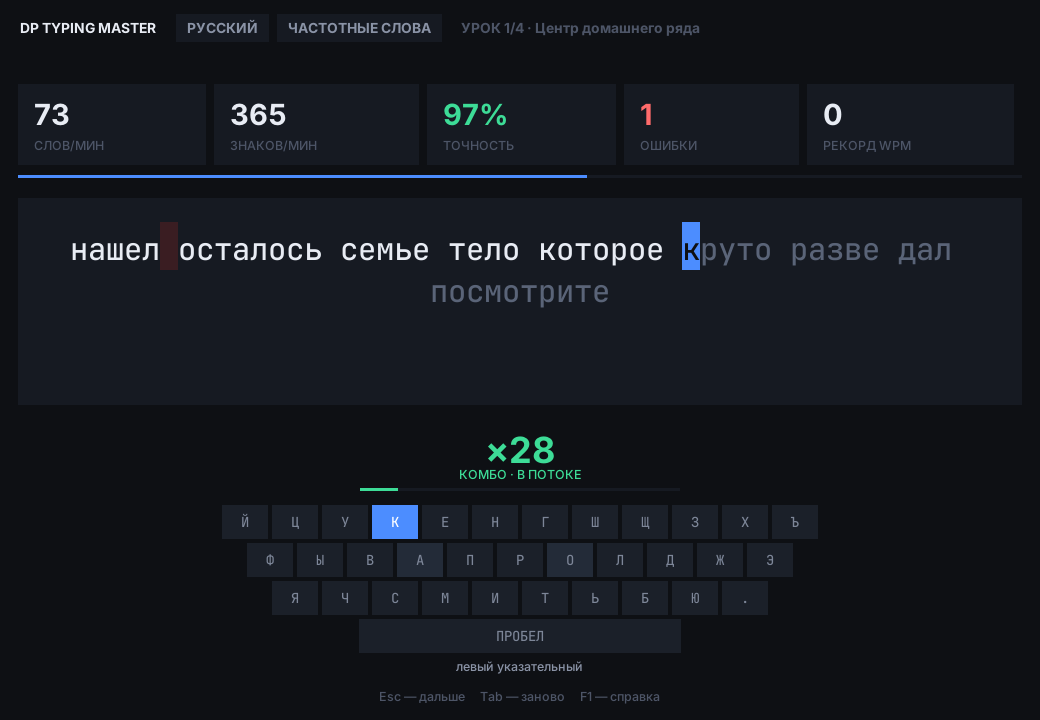
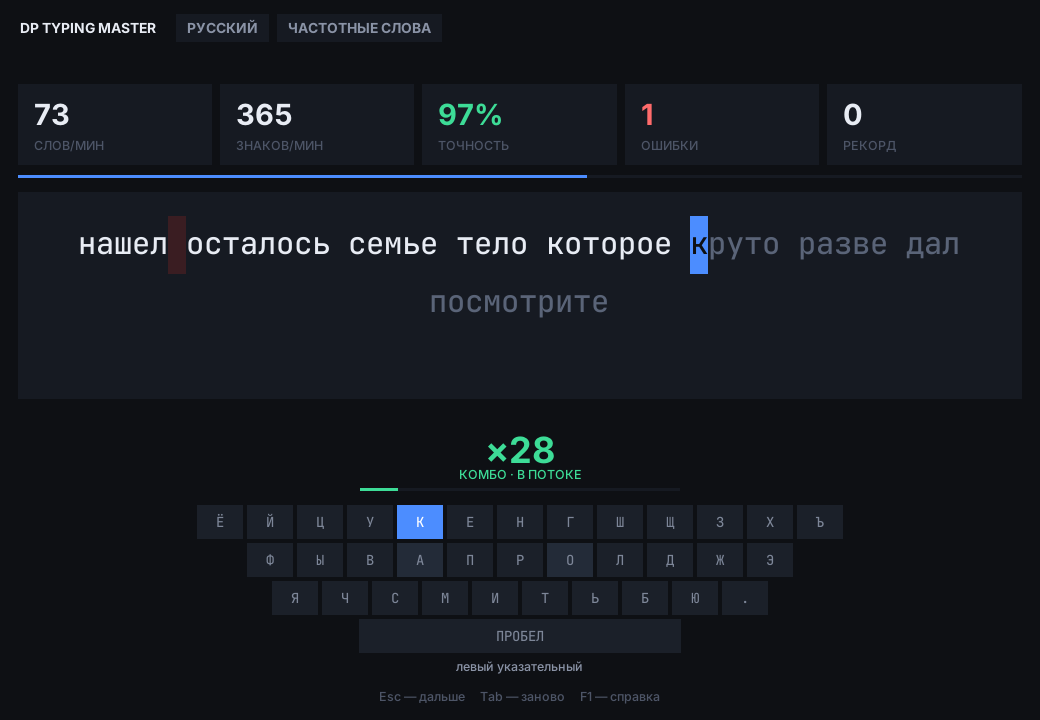
Версия 2.1.0: документация этапа
- ROADMAP: этап 2.1 закрыт, таблица принятых решений (порядок этапов,
  «ё», реакция на раскладку и Caps Lock, зависимости), 2.2 — следующий.
- docs/AUDIT.md: открытые пункты с этапами и таблица «было → стало» для
  исправленных.
- README: плашки о раскладке и Caps Lock, «ё», пауза, что засчитывается,
  F7 дважды, HiDPI, запуск тестов как в CI.
- CHANGELOG 2.1.0; скриншоты пересняты, добавлен снимок плашки.

Claude-Session: https://claude.ai/code/session_018wRUN7mQLqZzkYB9BQtRY2

diff --git a/tools/screenshots.py b/tools/screenshots.py
@@ -134,9 +134,15 @@ def main(out: Path) -> int:
     shot(win, out, "07_help")
     win.toggle_help()
 
-    win.toggle_language()
+    win.toggle_language()                        # русский, а печатаем латиницей
     win.mode = Mode.COMMON
     win._refresh_chips()
+    win.new_test()
+    type_chars(win, 4)
+    for ch in "ghb":
+        press(win, ch)
+    shot(win, out, "09_layout_notice")
+
     win.geometry("760x560+0+0")
     settle(win, 500)
     win.new_test()

diff --git a/dp_typing/__init__.py b/dp_typing/__init__.py
@@ -1,4 +1,4 @@
 """DP Typing Master — тренажёр слепой печати для русской и английской раскладки."""
 
-__version__ = "2.0.0"
+__version__ = "2.1.0"
 __all__ = ["__version__"]

diff --git a/docs/AUDIT.md b/docs/AUDIT.md
@@ -1,82 +1,69 @@
 # Аудит реализации
 
-Состояние на ветке после исправлений PR #2 (версия 2.0.0 + исправления).
+Аудит проведён 31.10.2026 на версии 2.0.0. Статусы обновлены после этапа
+2.1 (PR #2): из 31 пункта 20 исправлены полностью и 1 частично, остальные
+распределены по этапам
+[ROADMAP](../ROADMAP.md).
 
 **Как проверяли.** Прочитан весь код и тесты. Приложение запускалось на
 настоящем Tk под Xvfb (Python 3.12, Tk 8.6) с подменой часов, чтобы скорость
-была как у живого человека. Каждая проблема ниже воспроизведена скриптом или
+была как у живого человека. Каждая проблема воспроизведена скриптом или
 скриншотом, если не сказано иное. Для HiDPI использован Xvfb с `-dpi 192`.
 
 **Важность:** высокая — мешает учиться или искажает результат; средняя —
 заметно портит опыт; низкая — косметика или техдолг.
-
-Ссылки на задачи — в [ROADMAP.md](../ROADMAP.md).
 
 ## Что сделано хорошо
 
 - Нажатие стоит O(1): перекрашиваются 2–3 позиции тегами, а не вся строка.
 - В покое нет ни одного таймера, во время теста — один на 200 мс.
 - Время берётся с монотонных часов, скорость ограничена сверху.
-- Логика отделена от tkinter и проверяется без дисплея; 96 тестов.
+- Логика отделена от tkinter и проверяется без дисплея.
 - Профиль сохраняется атомарно, повреждённый файл не роняет приложение.
 
-## Ошибки и проблемы
+## Открытые
 
-### Исправлено в PR #2
+| ID | Проблема | Важность | Этап |
+|---|---|---|---|
+| A-27 | Тренируются только строчные буквы и пробел: нет заглавных, пунктуации и цифр, хотя на клавиатуре нарисованы «.», «,», «;». | высокая | 2.2 |
+| A-14 | **Рекорд WPM общий** для языков и режимов: фраза из урока («рад пора пол») ставит рекорд, недостижимый на обычном тексте. | средняя | 2.2 |
+| A-15 | Ступень урока растёт после одной фразы с точностью от 96%, скорость не учитывается, понижения нет. *Перескок F4 по кругу исправлен в 2.1.* | средняя | 2.2 |
+| A-16 | На первой ступени реальных слов 7 (ru) и 0 (en), поэтому генерируется набор букв вроде «аопр»; на второй — 26 и 17 слов, частые повторы. | средняя | 2.2 |
+| A-24 | Все функции только на F-клавишах: на многих ноутбуках нужен Fn, меню и панели настроек нет. | средняя | 2.4 |
+| A-25 | Адаптивный режим работает «вслепую»: какие клавиши слабые, пользователь не видит. | средняя | 2.3 |
+| A-26 | Нет истории тестов — хранятся только суммы, прогресс во времени не показать. | средняя | 2.3 |
+| A-31 | Нет готовых сборок для Windows и macOS — нужен установленный Python. | средняя | 3.0 |
+| A-17 | Псевдослова: 12% — двухбуквенные обрывки, около 15% совпадают с реальными словами («мой», «day»), хотя режим обещает несуществующие. | низкая | 2.2 |
+| A-23 | Проверяется только Ctrl: Alt/Cmd + буква печатается в тест. На Windows AltGr = Ctrl+Alt, и символы через AltGr игнорируются (для ru/en не нужны, но помешают новым раскладкам). | низкая | 3.0 |
+| A-30 | `app.py` — около 1000 строк, один класс отвечает за всё; тесты опираются на приватные атрибуты. | низкая | 3.0 |
 
-| ID | Проблема | Важность |
-|---|---|---|
-| A-01 | В минимальном окне (760×560) и при фразе в 3 строки клавиатура срезалась: видно 2 ряда из 4, пропадали подсказки | высокая |
-| A-02 | После двойного F6 клавиатура оказывалась под строкой подсказок | средняя |
-| A-03 | Строгий режим: ошибка под кареткой не видна — синий фон каретки перекрывал красный | средняя |
+## Исправлено в 2.1
 
-### Открытые — логика и метрики
+Каждое исправление закрыто тестом; интерфейсные — на живом Tk.
 
-| ID | Проблема | Важность |
-|---|---|---|
-| A-07 | **Простой считается печатью.** Если бросить фразу и закрыть окно через час, в профиль уходит час «набора», и средняя скорость обваливается. Пауза посреди фразы тоже портит её WPM. | высокая |
-| A-08 | **Esc выбрасывает статистику фразы**: ошибки не попадают в слабые клавиши. При этом недобранная фраза при выходе учитывается — поведение несогласованное. | средняя |
-| A-14 | **Рекорд WPM общий** для языков и режимов: фраза из урока («рад пора пол») ставит рекорд, недостижимый на обычном тексте. | средняя |
-| A-15 | **Ступень урока растёт после одной фразы** с точностью от 96%, скорость не учитывается, понижения нет. F4 с последней ступени перескакивает на первую. | средняя |
-| A-16 | На первой ступени реальных слов 7 (ru) и 0 (en), поэтому генерируется набор букв вроде «аопр»; на второй — 26 и 17 слов, частые повторы. | средняя |
-| A-17 | Псевдослова: 12% — двухбуквенные обрывки, около 15% совпадают с реальными словами («мой», «day»), хотя режим обещает несуществующие. | низкая |
-
-### Открытые — ввод
-
-| ID | Проблема | Важность |
-|---|---|---|
-| A-10 | **Неверная раскладка ОС**: с включённой английской раскладкой в русской тренировке каждое нажатие — ошибка, без подсказки. Проверено: «ghbdtn» → 6 ошибок из 6. | высокая |
-| A-11 | **Caps Lock**: все нажатия — ошибки, без предупреждения (5 из 5). | высокая |
-| A-09 | **Буква ё**: в словаре 20 слов с ё, но на экранной клавиатуре её нет — ни подсветки, ни подсказки пальца. 18 из них дублируются вариантом с «е» («нашел» и «нашёл»); в уроки слова с ё не попадают вовсе. | средняя |
-| A-23 | Проверяется только Ctrl: Alt/Cmd + буква печатается в тест. На Windows AltGr = Ctrl+Alt, и символы через AltGr игнорируются (для ru/en не нужны, но помешают новым раскладкам). | низкая |
-
-### Открытые — интерфейс
-
-| ID | Проблема | Важность |
-|---|---|---|
-| A-04 | **HiDPI (масштаб 200%)**: шрифты масштабируются, а размеры холстов заданы в пикселях. «×8» налезает на «КОМБО», буквы не помещаются в клавиши, чип ступени обрезан. Скриншот: [`audit_hidpi.png`](screenshots/audit_hidpi.png). | высокая |
-| A-12 | **F7 сбрасывает всю статистику без подтверждения**, а F7 соседствует с F6 и F8. | высокая |
-| A-06 | Справка не модальна: нажатия при открытой справке уходят в тест и запускают таймер; Esc при открытой справке пропускает фразу, а не закрывает справку. | средняя |
-| A-13 | Итог фразы виден 1,5 с и исчезает — ошибки не успеть разобрать. | средняя |
-| A-24 | Все функции только на F-клавишах: на многих ноутбуках нужен Fn, меню и панели настроек нет — возможности трудно обнаружить. | средняя |
-| A-25 | Адаптивный режим работает «вслепую»: какие клавиши слабые, пользователь не видит. | средняя |
-| A-26 | Нет истории тестов — хранятся только суммы, прогресс во времени не показать. | средняя |
-| A-27 | Тренируются только строчные буквы и пробел: нет заглавных, пунктуации и цифр, хотя на клавиатуре нарисованы «.», «,», «;». | высокая |
-| A-05 | Каретка и ошибка на **первом символе строки** «растекаются» влево на ширину отступа от центрирования — так Tk рисует фон при `justify=center`. | средняя |
-| A-18 | Клик по приглушённому чипу ступени молча переключает режим на «Уроки» и меняет ступень. | низкая |
-| A-19 | Цвет точности расходится с округлением: 96,7% показывается как «97%», но жёлтым; 97,1% — зелёным. | низкая |
-| A-20 | Плитки статистики разной ширины (173–204 px) — ширина зависит от длины подписи. | низкая |
-| A-21 | Блок с фразой прыгает по вертикали, когда фраза в 1 строку сменяется фразой в 2. | низкая |
-| A-22 | Склонения: «4 тест.», «2 ошиб.»; рядом «СЛОВ/МИН» и «РЕКОРД WPM». | низкая |
-
-### Инфраструктура и техдолг
-
-| ID | Проблема | Важность |
-|---|---|---|
-| A-29 | Нет CI: тесты интерфейса без дисплея молча пропускаются, их легко сломать незаметно. | средняя |
-| A-31 | Нет готовых сборок для Windows и macOS — нужен установленный Python. | средняя |
-| A-28 | `flake8 .` из README падает (90×E501, 1×E203): длина строки 100 задана только для ruff. | низкая |
-| A-30 | `app.py` — около 950 строк, один класс отвечает за всё; тесты опираются на приватные атрибуты. | низкая |
+| ID | Было | Стало | Важность |
+|---|---|---|---|
+| A-01 | В минимальном окне (760×560) и при фразе в 3 строки клавиатура срезалась: видно 2 ряда из 4, пропадали подсказки | Компактная плотность включается сама, клавиши масштабируются по высоте | высокая |
+| A-04 | HiDPI: шрифты масштабировались, а размеры в пикселях — нет; «×8» налезало на «КОМБО», буквы не помещались в клавиши ([было](screenshots/audit_hidpi.png)) | Все размеры умножаются на масштаб экрана | высокая |
+| A-07 | Простой считался печатью: брошенная на час фраза приносила в профиль час «набора» | После 5 с без нажатий время стоит, на экране «пауза» | высокая |
+| A-10 | Неверная раскладка ОС: каждое нажатие — ошибка, без объяснения («ghbdtn» → 6 ошибок из 6) | Плашка «переключите на русскую»; нажатия засчитываются как ошибки | высокая |
+| A-11 | Caps Lock: все нажатия — ошибки, без предупреждения | Плашка «выключите Caps Lock» | высокая |
+| A-12 | F7 стирал всю статистику без подтверждения | Только по второму F7 в течение 3 с | высокая |
+| A-02 | После двойного F6 клавиатура оказывалась под строкой подсказок | Клавиатура всегда на своём месте | средняя |
+| A-03 | Строгий режим: ошибка под кареткой не видна | Каретка над ошибкой красная | средняя |
+| A-05 | Каретка и ошибка на первом символе строки растекались влево на ширину отступа (особенность Tk при `justify=center`) | Строки переносятся вручную и центрируются отступом | средняя |
+| A-06 | Справка не модальна; Esc при ней пропускал фразу | Печать при справке не идёт в тест, Esc её закрывает | средняя |
+| A-08 | Esc выбрасывал статистику фразы, а выход — засчитывал недобранную фразу как тест | Брошенная фраза отдаёт только ошибки по клавишам | средняя |
+| A-09 | «Ё» в словах есть, а на клавиатуре нет; в уроки слова с «ё» не попадали | Клавиша «ё», подсказка пальца, «е» засчитывается | средняя |
+| A-13 | Итог фразы исчезал через 1,5 с | Висит до нажатия любой клавиши | средняя |
+| A-29 | Не было CI; тесты интерфейса без дисплея молча пропускались | GitHub Actions на 3.9–3.13; `DP_REQUIRE_GUI=1` | средняя |
+| A-15 | F4 с последней ступени перескакивал на первую *(часть пункта)* | Сообщение «это последняя ступень» | средняя |
+| A-18 | Клик по приглушённому чипу ступени молча переключал режим | Вне уроков чипа нет | низкая |
+| A-19 | 96,7% показывалось как «97%», но жёлтым | Цвет по показанному значению | низкая |
+| A-20 | Плитки статистики разной ширины (173–204 px) | Одинаковые, край вровень с панелью | низкая |
+| A-21 | Панель с фразой прыгала при смене числа строк | Верх панели закреплён | низкая |
+| A-22 | «4 тест.», «2 ошиб.», «РЕКОРД WPM» рядом со «СЛОВ/МИН» | «4 теста», «2 ошибки», «РЕКОРД» | низкая |
+| A-28 | `flake8 .` из README падал | `.flake8` с правилами ruff | низкая |
 
 ## Как воспроизвести
 

diff --git a/ROADMAP.md b/ROADMAP.md
@@ -11,8 +11,10 @@
 
 - **Офлайн и приватно.** Никаких аккаунтов и серверов; данные — в локальном
   профиле.
-- **Только стандартная библиотека** в самом приложении. Инструменты сборки
-  (PyInstaller) и разработки (pytest, ruff) — не в счёт.
+- **Зависимости — по делу.** Сейчас приложению хватает стандартной
+  библиотеки, и это удобно: `python DP_Typing_Master.py` работает сразу.
+  Сторонние пакеты допустимы, если без них функцию не сделать или она
+  заметно хуже (звук, графики, сборки), — решение 31.10.2026.
 - **Бюджет производительности.** Нажатие — O(1), в покое ноль таймеров. Каждая
   новая функция проверяется на это тестом.
 - **Честные метрики.** Что показано пользователю, то и посчитано, без
@@ -21,16 +23,24 @@
 
 ## Где мы сейчас
 
-**Версия 2.0.0** (сентябрь 2026): переписанное ядро, 4 режима, комбо,
-экранная клавиатура, строгий режим, сохранение профиля, 96 тестов.
-Первые три дефекта аудита исправлены в PR #2.
+**Версия 2.1.0** (октябрь 2026, PR #2): этап 2.1 закрыт целиком — 20 пунктов
+аудита исправлены полностью и 1 частично, есть CI, 163 теста. Следующий этап — 2.2.
+
+## Принятые решения
+
+| Дата | Вопрос | Решение |
+|---|---|---|
+| 31.10.2026 | Порядок этапов | Сначала 2.1 «Надёжность», затем по порядку |
+| 31.10.2026 | Буква «ё» | Слова с «ё» остаются; «е» на её месте засчитывается; клавиша «ё» есть на экранной клавиатуре |
+| 31.10.2026 | Неверная раскладка ОС и Caps Lock | Предупреждать плашкой и **засчитывать** такие нажатия как ошибки |
+| 31.10.2026 | Зависимости | Допустимы, если оправданы функцией (см. принципы) |
 
 Обозначения: ✅ сделано · 🔜 следующий этап · ⬜ запланировано.
 Оценка трудоёмкости: **S** — до пары часов, **M** — день, **L** — несколько дней.
 
 ---
 
-## 2.1 — Честные метрики и меньше сюрпризов
+## 2.1 — Честные метрики и меньше сюрпризов ✅
 
 Цель: убрать всё, из-за чего тренажёр выдаёт непонятные ошибки или
 искажённые цифры. Без новых режимов.
@@ -40,32 +50,32 @@
 | ✅ | Клавиатура не срезается в маленьком окне и при длинной фразе; компактная плотность | A-01 | M |
 | ✅ | F6 не переносит клавиатуру под подсказки | A-02 | S |
 | ✅ | Ошибка под кареткой видна в строгом режиме | A-03 | S |
-| 🔜 | Распознавать неверную раскладку ОС: предупреждение «включите русскую раскладку» | A-10, Ratatype, KTouch | M |
-| 🔜 | Предупреждение о Caps Lock | A-11 | S |
-| 🔜 | Сброс статистики только с подтверждением (повторное F7 в течение 3 с) | A-12 | S |
-| 🔜 | Пауза при простое: после 5 с без нажатий время не идёт; при выходе простой не учитывается | A-07, Monkeytype | M |
-| 🔜 | Esc учитывает нажатия пропущенной фразы в статистике клавиш, но не засчитывает тест | A-08 | S |
-| 🔜 | Буква ё: клавиша на экранной клавиатуре и подсказка пальца, решение по е/ё | A-09 | M |
-| 🔜 | Справка модальна: блокирует ввод, закрывается по Esc | A-06 | S |
-| 🔜 | Итог фразы держится до нажатия клавиши | A-13 | S |
-| 🔜 | Каретка на первом символе строки не «растекается» | A-05 | M |
-| 🔜 | Мелкие правки: цвет точности по показанному значению, ровные плитки, склонения, единые подписи | A-19, A-20, A-22 | S |
-| 🔜 | F4 / Shift+F4 не перескакивают по кругу; чип ступени — только в режиме уроков | A-15, A-18 | S |
-| 🔜 | Корректный масштаб на HiDPI-экранах | A-04 | M |
-| 🔜 | CI на GitHub Actions: ruff + pytest под Xvfb на Python 3.9–3.13; настройки flake8 | A-28, A-29 | S |
+| ✅ | Распознавать неверную раскладку ОС: предупреждение «переключите на русскую» | A-10, Ratatype, KTouch | M |
+| ✅ | Предупреждение о Caps Lock | A-11 | S |
+| ✅ | Сброс статистики только с подтверждением (повторное F7 в течение 3 с) | A-12 | S |
+| ✅ | Пауза при простое: после 5 с без нажатий время не идёт; при выходе простой не учитывается | A-07, Monkeytype | M |
+| ✅ | Esc, Tab и выход отдают ошибки брошенной фразы в статистику клавиш, тест не засчитывается | A-08 | S |
+| ✅ | Буква ё: клавиша на экранной клавиатуре, подсказка пальца, «е» засчитывается | A-09 | M |
+| ✅ | Справка модальна: блокирует ввод, закрывается по Esc | A-06 | S |
+| ✅ | Итог фразы держится до нажатия клавиши | A-13 | S |
+| ✅ | Каретка и ошибка на первом символе строки не «растекаются» | A-05 | M |
+| ✅ | Мелкие правки: цвет точности по показанному значению, ровные плитки, панель не прыгает, склонения | A-19, A-20, A-21, A-22 | S |
+| ✅ | F4 / Shift+F4 не перескакивают по кругу; чип ступени — только в режиме уроков | A-15 (часть), A-18 | S |
+| ✅ | Корректный масштаб на HiDPI-экранах | A-04 | M |
+| ✅ | CI на GitHub Actions: ruff, flake8, pytest под Xvfb на Python 3.9–3.13 | A-28, A-29 | S |
 
-## 2.2 — Настоящий текст
+## 2.2 — Настоящий текст 🔜
 
-Цель: навык должен переноситься на реальную работу.
+Цель: навык должен переноситься на реальную работу. Следующий этап.
 
 | | Задача | Источник | Оценка |
 |---|---|---|---|
-| ⬜ | Переключатели «Заглавные», «Пунктуация», «Цифры»; подсказка Shift и ряд цифр на клавиатуре | A-27, Monkeytype, VerseQ | L |
-| ⬜ | Тесты на время (15/30/60/120 с) и на число слов | Monkeytype, TIPP10 | M |
-| ⬜ | Режим «Свой текст»: загрузка `.txt`, печать кусками с продолжением с места | Amphetype, TIPP10, Клавогонки | M |
-| ⬜ | Псевдослова без реальных слов и обрывков короче 3 букв | A-17 | S |
-| ⬜ | Рекорды отдельно по языку и режиму | A-14, Monkeytype | S |
-| ⬜ | Курс по модели keybr: ступень растёт, когда каждая её клавиша набирается с целевой скоростью и точностью; есть понижение; реальные слоги вместо случайных букв | A-15, A-16, keybr | L |
+| 🔜 | Переключатели «Заглавные», «Пунктуация», «Цифры»; подсказка Shift и ряд цифр на клавиатуре | A-27, Monkeytype, VerseQ | L |
+| 🔜 | Тесты на время (15/30/60/120 с) и на число слов | Monkeytype, TIPP10 | M |
+| 🔜 | Режим «Свой текст»: загрузка `.txt`, печать кусками с продолжением с места | Amphetype, TIPP10, Клавогонки | M |
+| 🔜 | Псевдослова без реальных слов и обрывков короче 3 букв | A-17 | S |
+| 🔜 | Рекорды отдельно по языку и режиму | A-14, Monkeytype | S |
+| 🔜 | Курс по модели keybr: ступень растёт, когда каждая её клавиша набирается с целевой скоростью и точностью; есть понижение; реальные слоги вместо случайных букв | A-15, A-16, keybr | L |
 
 ## 2.3 — Видно прогресс
 
@@ -86,7 +96,7 @@
 | ⬜ | Размер шрифта (`Ctrl+=` / `Ctrl+-`), светлая тема | — | M |
 | ⬜ | Цветные зоны пальцев на клавиатуре | TypingClub, Соло | S |
 | ⬜ | Каретка темпа: «призрак» со скоростью рекорда | Monkeytype | M |
-| ⬜ | Звук нажатий и ошибок, если получится без зависимостей | Stamina | M |
+| ⬜ | Звук нажатий и ошибок | Stamina | M |
 
 ## 3.0 — Для всех
 

diff --git a/README.md b/README.md
@@ -24,7 +24,18 @@ python DP_Typing_Master.py
 Отдельного поля ввода нет: вы печатаете прямо «в текст». Каждый символ
 подсвечивается по мере набора — набранное белым, ошибки красным, курсор
 синим блоком. Экранная клавиатура снизу показывает следующую клавишу и
-подписывает, каким пальцем по ней бить.
+подписывает, каким пальцем по ней бить. Итог фразы остаётся на экране,
+пока вы не нажмёте любую клавишу.
+
+**Подсказки, а не молчаливые ошибки.** Если в русской тренировке включена
+английская раскладка (или наоборот) либо нажат Caps Lock, тренажёр сразу
+скажет об этом плашкой. Такие нажатия всё равно считаются ошибками — плашка
+лишь объясняет, откуда они.
+
+![Предупреждение о неверной раскладке](docs/screenshots/09_layout_notice.png)
+
+**Буква «ё»** есть на экранной клавиатуре (левый мизинец), но печатать её
+необязательно: «е» на её месте засчитывается как верное нажатие.
 
 ### Режимы (F3)
 
@@ -51,6 +62,9 @@ python DP_Typing_Master.py
 
 ![Компактный вид в окне 760×560](docs/screenshots/08_compact.png)
 
+На экранах с масштабом 150–200% вместе со шрифтами растут и все отступы,
+клавиши и полоски — ничего не налезает друг на друга.
+
 ### Комбо
 
 Счётчик подряд набранных без ошибки символов. Разбивается на уровни
@@ -63,15 +77,15 @@ python DP_Typing_Master.py
 
 | Клавиша | Действие |
 |---|---|
-| `Esc` | пропустить фразу |
+| `Esc` | пропустить фразу; закрыть справку |
 | `Tab` | эту же фразу заново |
 | `F1` | справка |
 | `F2` | русский / английский |
 | `F3` | режим тренировки |
-| `F4` / `Shift+F4` | ступень урока вперёд / назад |
+| `F4` / `Shift+F4` | ступень урока вперёд / назад; вне уроков — открыть уроки |
 | `F5` | строгий режим — не пускает дальше, пока символ не набран верно |
 | `F6` | показать / скрыть экранную клавиатуру |
-| `F7` | сбросить накопленную статистику |
+| `F7` дважды | сбросить накопленную статистику (одно нажатие только спрашивает) |
 | `Ctrl+Q` | выход |
 
 Прогресс, рекорды и статистика по буквам сохраняются между запусками
@@ -85,13 +99,24 @@ python DP_Typing_Master.py
 что выше, это вставка из буфера, а не человек. Время берётся с монотонных
 часов, поэтому синхронизация системного времени не искажает результат.
 
+**Пауза.** После 5 секунд без нажатий время перестаёт идти, а на экране
+появляется «пауза»; следующее нажатие продолжает тест. Отошли посреди
+фразы — скорость не пострадает.
+
+**Засчитываются только дописанные фразы.** Пропущенная (`Esc`), начатая
+заново (`Tab`) или брошенная при выходе фраза не идёт в число тестов и в
+среднюю скорость, но её ошибки учитываются в режиме «Слабые клавиши».
+
 ## Разработка
 
 ```bash
-pytest                      # логика: работает без дисплея
-xvfb-run -a pytest          # плюс интеграционные тесты на настоящем Tk
+pytest                                   # логика: работает без дисплея
+xvfb-run -a pytest                       # плюс интеграционные тесты на настоящем Tk
+DP_REQUIRE_GUI=1 xvfb-run -a pytest      # как в CI: без дисплея — ошибка, а не пропуск
 ruff check . && flake8 .
 ```
+
+CI (GitHub Actions) гоняет линтеры и все тесты под Xvfb на Python 3.9–3.13.
 
 Скриншоты для документации пересобираются одной командой (нужен ImageMagick):
 
@@ -109,7 +134,7 @@ tkinter и проверяется headless. Интерфейс (`app.py`) пок
 строки на каждое нажатие рос бы в ×7.1. В покое очередь отложенных задач
 пуста — это проверяется тестом.
 
-Требуется Python 3.9+; проверено на 3.10, 3.11, 3.12 и 3.13.
+Требуется Python 3.9+; проверяется в CI на 3.9, 3.10, 3.11, 3.12 и 3.13.
 
 ## Лицензия
 

diff --git a/CHANGELOG.md b/CHANGELOG.md
@@ -1,17 +1,42 @@
 # Изменения
 
 Формат — по [Keep a Changelog](https://keepachangelog.com/ru/1.1.0/),
-версии — по [SemVer](https://semver.org/lang/ru/).
+версии — по [SemVer](https://semver.org/lang/ru/). Идентификаторы `A-xx` —
+пункты [аудита](docs/AUDIT.md).
 
-## [Не выпущено]
+## [2.1.0] — 2026-10-31
+
+Этап «Честные метрики и меньше сюрпризов» из [ROADMAP](ROADMAP.md).
+
+### Добавлено
+- Плашка о неверной раскладке ОС («переключите на русскую») и о Caps Lock.
+  Сами нажатия по-прежнему считаются ошибками — плашка объясняет, откуда
+  они (A-10, A-11).
+- Клавиша «ё» на экранной клавиатуре с подсказкой пальца; «е» на месте «ё»
+  засчитывается как верное нажатие (A-09).
+- Пауза: после 5 секунд без нажатий время теста не идёт, на экране
+  «пауза» (A-07).
+- Сброс статистики по F7 — только со вторым нажатием в течение 3 секунд (A-12).
+- Компактный вид для маленьких окон и длинных фраз; масштабирование под
+  HiDPI-экраны (A-01, A-04).
+- CI на GitHub Actions: ruff, flake8, тесты под Xvfb на Python 3.9–3.13 (A-28, A-29).
+
+### Изменено
+- Итог фразы остаётся на экране до нажатия любой клавиши (A-13).
+- Пропущенная (Esc), начатая заново (Tab) или брошенная при выходе фраза не
+  засчитывается как тест, но её ошибки идут в статистику клавиш (A-08).
+- Справка модальна: печать при ней не уходит в тест, Esc её закрывает (A-06).
+- F4 вне уроков открывает уроки на текущей ступени и не перескакивает с
+  последней ступени на первую (A-15); чип ступени виден только в уроках (A-18).
+- Плитки статистики одинаковой ширины; подписи «РЕКОРД», «Всего: 4 теста»,
+  «2 ошибки» (A-20, A-22).
 
 ### Исправлено
-- Клавиатура больше не срезается в минимальном окне (760×560) и при фразе в
-  3 строки: интерфейс сам переходит в компактный вид и возвращается в обычный,
-  когда место появилось.
-- F6 дважды (скрыть, показать) больше не переносит клавиатуру под строку
-  подсказок.
-- Строгий режим: ошибка под кареткой теперь видна — каретка становится красной.
+- F6 дважды больше не переносит клавиатуру под строку подсказок (A-02).
+- Строгий режим: ошибка под кареткой видна (A-03).
+- Каретка и ошибка в начале строки больше не растекаются влево (A-05).
+- Цвет точности соответствует показанному числу (A-19).
+- Панель с фразой не прыгает при смене числа строк (A-21).
 
 ### Документация
 - Скриншоты основных экранов и скрипт для их пересборки (`tools/screenshots.py`).
